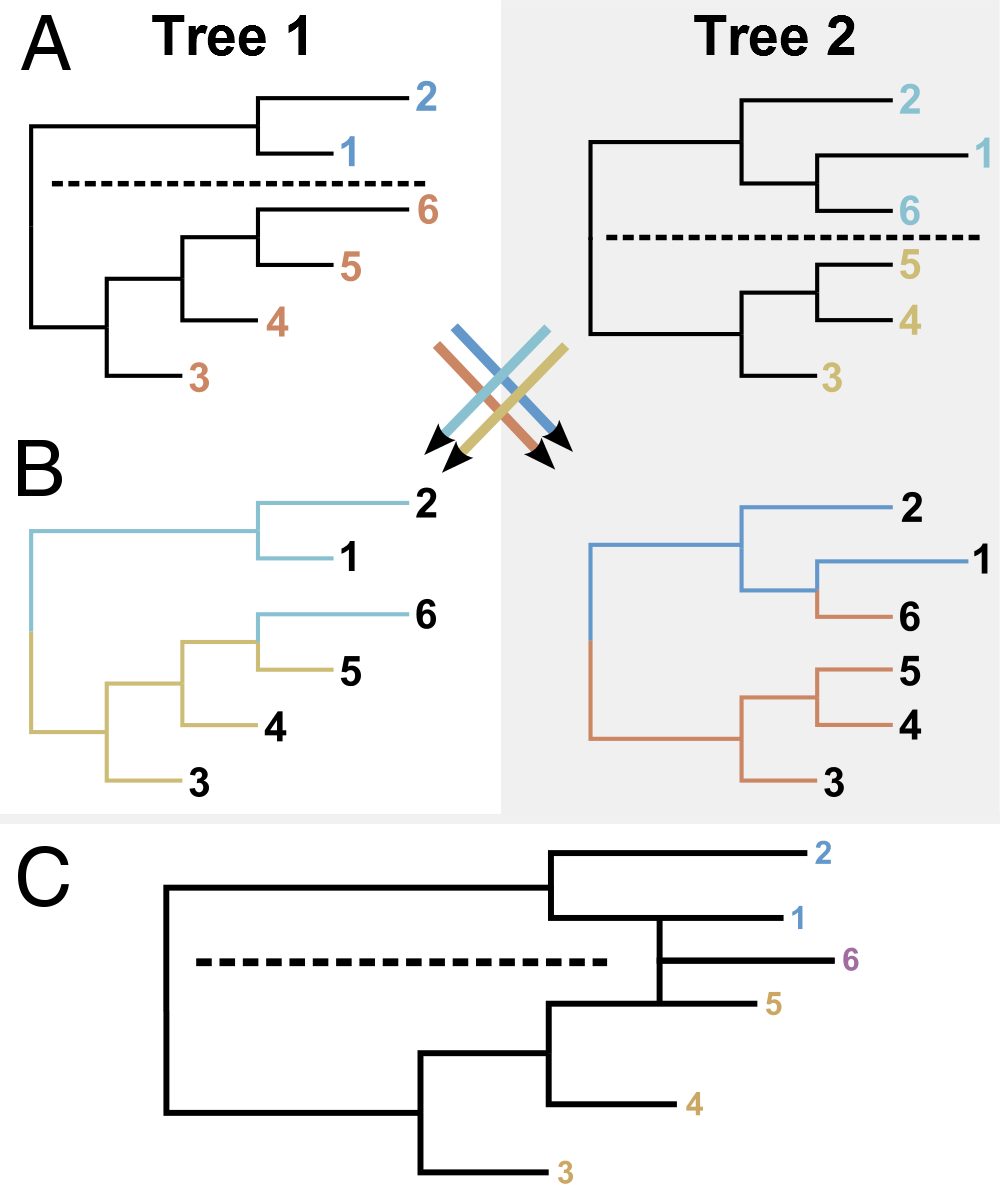
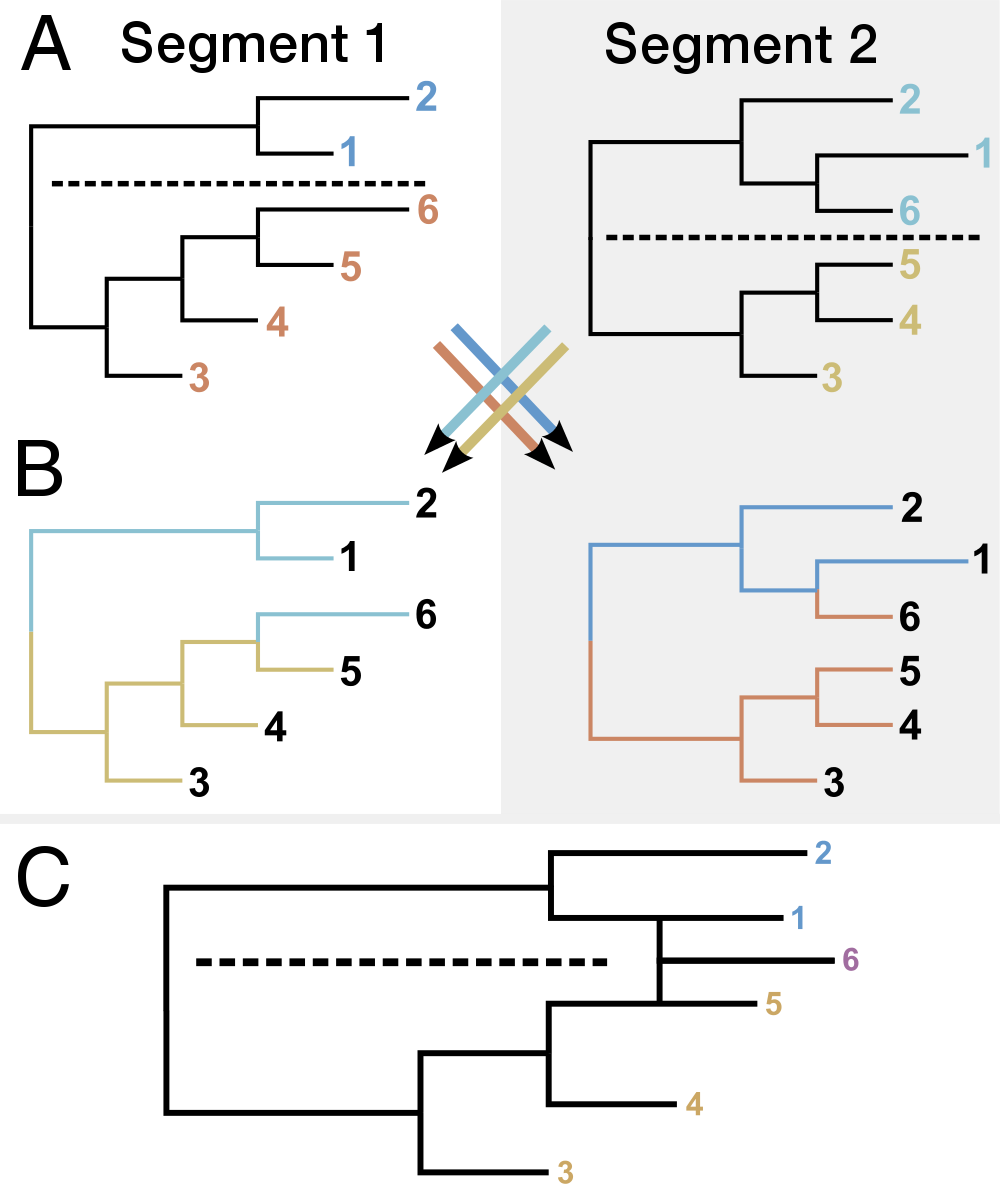
Adding text revisions suggested by @trvrb
Changes to text and method figure and adding references.
Tempted to call PB1-PB2-HA a genomic speciation raft rather than island,
seems catchy and more accurate as an analogy.

Changed region(s): [[0.589, 0.0, 0.868, 0.0617], [0.124, 0.0, 0.341, 0.0617], [0.372, 0.0308, 0.403, 0.0617]]

diff --git a/fluB.tex b/fluB.tex
@@ -76,7 +76,10 @@
 Influenza B viruses are increasingly being recognized as major contributors to morbidity attributed to seasonal influenza. 
 Currently circulating influenza B isolates are known to belong to two antigenically distinct lineages referred to as B/Victoria and B/Yamagata lineages. 
 Frequent reassortment between the segments of these two lineages has been noted in the past, but the effects of these reassortments have not been investigated in much detail.
-\tbc{Expand abstract to broadly outline results and give a 1 sentence conclusion.}
+We investigate inter-lineage reassortments by modelling the lineages of all genomic segments on phylogenetic trees.
+Our analyses indicate that of the 8 segments of influenza B viruses only PB1, PB2 and HA segments still have a Victoria and a Yamagata lineage and that currently circulating strains possess PB1, PB2 and HA segments derived entirely from one or the other lineage.
+We argue that this is due to selection against reassortant viruses with mixed lineage PB1, PB2 and HA segments.
+Given sufficient time we expect influenza B viruses to undergo sympatric speciation, if more segments get recruited by the already reassortment-isolated PB1-PB2-HA speciation island.
 
 \end{abstract}
 
@@ -92,7 +95,7 @@ Influenza B viruses are thought to primarily infect humans (and occasionaly seal
 Both influenza A and B evolve antigenically through time in a process known as antigenic drift, in which mutations to the haemagglutinin (HA) protein allow viruses to escape existing human immunity and persist in the human population, leading to recurrent seasonal epidemics \cite{bedford2013}.
 
 Currently circulating influenza B viruses comprise two distinct lineages -- Victoria and Yamagata (referred to as Vic and Yam, respectively) -- named after strains B/Victoria/2/87 and B/Yamagata/16/88, that are thought to have genetically diverged in HA around 1983 \cite{rota1990}. 
-These two lineages now possess antigenically distinct HA surface glycoproteins \tbc{CITE} allowing them to co-circulate in the human population.
+These two lineages now possess antigenically distinct HA surface glycoproteins \cite{kanegae1990,rota1990,nerome1998,nakagawa2002,ansaldi2003} allowing them to co-circulate in the human population.
 Phylogenetic analysis of evolutionary rate, selective pressures and reassortment history of major clades of influenza B has shown extensive and often complicated patterns of reassortment between all segments of influenza B viruses between and within the Vic and Yam lineages \cite{chen2008}.
 Here, we extend previous methods to reveal an evolutionarily intriguing pattern of reassortment in influenza B.
 In our approach, membership to either the Victoria or Yamagata lineage in the tree of one segment is used to label the individual viruses in the tree of the other segments.
@@ -111,7 +114,6 @@ This has occured through repeated reassortments and subsequent fixation of reass
 	B) We then transfer lineage labels from one tree to the same tips in another tree.
 	Label switches thus indicate reassortment events that combine lineages falling on different sides of the Vic/Yam bifurcation.
 	C) A reassortment graph depiction shows that tip number 6 is determined to be a reassortant.
-	\tbc{Relabel as "Segment 1" and "Segment 2" instead of "Tree 1" and "Tree 2".}
 	}
 	\label{methodFig}
 \end{figure}
@@ -121,7 +123,7 @@ This has occured through repeated reassortments and subsequent fixation of reass
 \subsection*{Sequences and lineage assignment}
 
 We compiled a dataset of 452 complete influenza B genomes from GISAID \cite{GISAID} dating from 1984 to 2012 (accession numbers and laboratory acknowledgements can be found in supplementary information). 
-The segments of each strain were assigned to a lineage (either Vic or Yam) by making maximum likelihood trees of each segment \tbc{using what software?} and identifying whether the isolate was more closely related to B/Victoria/2/87 or B/Yamagata/16/88 sequences in that segment, with the exception of the NS segment (B/Victoria/2/87 was a reassortant and possessed a Yam lineage NS \cite{lindstrom1999}), where B/Czechoslovakia/69/1990 was considered as being representative of Victoria lineage.
+The segments of each strain were assigned to a lineage (either Vic or Yam) by making maximum likelihood trees of each segment using PhyML \cite{guindon2003} and identifying whether the isolate was more closely related to B/Victoria/2/87 or B/Yamagata/16/88 sequences in that segment, with the exception of the NS segment (B/Victoria/2/87 was a reassortant and possessed a Yam lineage NS \cite{lindstrom1999}), where B/Czechoslovakia/69/1990 was considered as being representative of Victoria lineage.
 
 Each strain was thus assigned 8 lineages depending on the combination of lineages it belongs to in all trees (for example all segments except for NS in strain B/Victoria/2/87 belong to Vic lineage and can thus be represented as V,V,V,V,V,V,V,Y). 
 
@@ -131,11 +133,11 @@ Here, we modeled the substitution process using the HKY model of nucleotide subs
 We used a flexible Bayesian skyride demographic model \cite{minin2008}.
 We accounted for incomplete sampling dates for 94 sequences (of which 93 only had year of isolation and 1 had only year and month of isolation) whereby tip date is estimated as a latent variable in the MCMC integration.
 We ran 3 independent MCMC chains, each with 200 million states, sampled every 20,000 steps and discarded the first 10\% of the MCMC states as burn-in.
-After assessing convergence of all 3 MCMC chains by visual inspection using Tracer \tbc{CITE}, we combined samples across chains to give a total of 27,000 samples from the posterior distribution of trees.
+After assessing convergence of all 3 MCMC chains by visual inspection using Tracer \cite{tracer}, we combined samples across chains to give a total of 27,000 samples from the posterior distribution of trees.
 \tbc{The MCC tree for each segment should be shown in supplemental information.  I would imagine one figure with eight panels.}
 
-Every sequence was assigned 7 discrete traits corresponding to the lineages of all other segments with which a strain was isolated (e.g. PB1 tree had PB2, PA, HA, NP, NA, MP and NS as traits and V or Y as trait values).
-We inferred the ancestral state of lineages in each segment by modelling transitions between these discrete traits using an asymmetric transition matrix \tbc{CITE asymmetric model} with Bayesian stochastic search variable selection (BSSVS) to estimate significant rates \cite{lemey2009}). Because the posterior set of trees for a single segment has branches labelled with the inferred lineage in the remaining 7 segments, we can detect inter-lineage reassortments between pairs of segments by observing trait transitions, i.e. Yam to Vic or Vic to Yam (see Figure \ref{methodFig}). 
+Every sequence was assigned 7 discrete traits corresponding to the lineages of all other segments with which a strain was isolated (\textit{e.g.} PB1 tree had PB2, PA, HA, NP, NA, MP and NS as traits and V or Y as trait values).
+We inferred the ancestral state of lineages in each segment by modelling transitions between these discrete traits using an asymmetric transition matrix \cite{lemey2009} with Bayesian stochastic search variable selection (BSSVS) to estimate significant rates. Because the posterior set of trees for a single segment has branches labelled with the inferred lineage in the remaining 7 segments, we can detect inter-lineage reassortments between pairs of segments by observing trait transitions, \textit{i.e.} Yam to Vic or Vic to Yam (see Figure \ref{methodFig}). 
 In addition, by reconstructing the ancestral state of all other genomic segments jointly we can infer co-reassortment events when more than one trait transition occurs on the same node in a tree.
 
 \subsection*{Measures of diversity}
@@ -227,7 +229,6 @@ All horizontal lines indicating uncertainty are 95\% highest posterior densities
 
 
 \subsection*{Recent PB1-PB2-HA constellations are entirely derived from Victoria or Yamagata lineage segments}
-\tbc{Can you reject the hypothesis that PB1 and PB2 stuck to HA stochastically?}
 
 We find that PB1, PB2 and HA segments, in addition to not reassorting across the Vic-Yam lineage boundary since 1997, form co-reassorting segment complexes derived entirely of Vic or Yam lineage segments.
 Figure \ref{stateTime} shows the sum of branch lengths which were labelled as having entirely Vic, entirely Yam or mixed-lineage PB1, PB2 and HA segments.
@@ -268,8 +269,6 @@ All vertical lines indicating uncertainty are 95\% highest posterior densities (
 \end{figure}
 
 \subsection*{Railroad schematic plot of influenza B reassortment history}
-
-\tbc{Are the observed rates of extinction / co-option fit with the effective population of the flu B population?  I.e. we generally get 10 years back to a common ancestor within a lineage / segment.  Can we think of the extinction of segments as an aspect of there existing a loosely panmictic flu B population for everything but PB1, PB2 and HA?}
 
 We reconstructed reassortment events that were detected by using lineage labels.
 Figure \ref{railroadPlot} focuses only on reassortments that have occured after 1990.
@@ -344,17 +343,16 @@ Numbers on the heatmap are mean $\chi^{2}_{df}$ between pairs of proteins.}
 
 \section*{Discussion}
 
-\subsection*{Rehash streamlined version of results for people who don't read results sections.}
+\subsection*{Evidence of incipient sympatric speciation}
 In this paper we have shown that PB1, PB2 and HA segments of influenza B viruses are the only ones that have maintained both a Vic and a Yam lineage (Figure \ref{lineageRatiosOverTime}).
 Evidence suggests that this is a result of prolonged lack of reassortment between Vic and Yam lineages of these segments (Figure \ref{betweenDiversity}) which have evolved co-assorting amino acid sites detectable as high linkage disequilibrium (Figure \ref{segmentLD}).
 We propose that this pattern of non-reassortment is due to the action of selection and not simply biased reassortment.
-Figures \ref{SPRdistances} and \ref{deltaTMRCA} show that despite all pairs of segments having the same reassortment frequency, PB1, PB2 and HA segments exhibit much lower reassortment `distances'.
+Figures \ref{SPRdistances} and \ref{deltaTMRCA} show that despite all pairs of segments having the same reassortment frequency, suggesting there is no bias in segment packaging, PB1, PB2 and HA segments exhibit much lower reassortment `distances'.
 Reassortment `distances' represent the temporal separation of reassorting lineages and suggests that reassortments between PB1, PB2 and HA segments tend to combine lineages that have relatively recently been part of the same genome (\textit{i.e.} that have shared a recent common virion).
 In addition, most strains with mixed-lineage PB1-PB2-HA complexes occured in the early years of the Vic--Yam split, when the two lineages were much more similar at the nucleotide and amino acid levels.
 The most recent lineage of influenza B viruses with mixed-lineage PB1-PB2-HA complexes (B/Waikato/6/2005-like) only circulated for 5 months before going extinct.
 We suggest that the preservation of two PB1-PB2-HA complex lineages is similar to genomic speciation islands \textit{i.e.} small numbers of genes that resist being homogenized through gene flow.
 Thus, if both PB1-PB2-HA complex lineages continue circulating in humans we expect more segments to be recruited to the two complexes, resulting in eventual sympatric speciation of influenza B viruses. 
-\tbc{Title is approximate.}
 
 \subsection*{Potential causes of co-dependence between PB1-PB2-HA}
 Previous studies have investigated possible co-dependence patterns between segments of influenza B viruses, by focusing on segments which would be expected to be co-adapted, \textit{e.g.} PB1-PB2-PA and HA-NA \cite{mccullers2004}.
